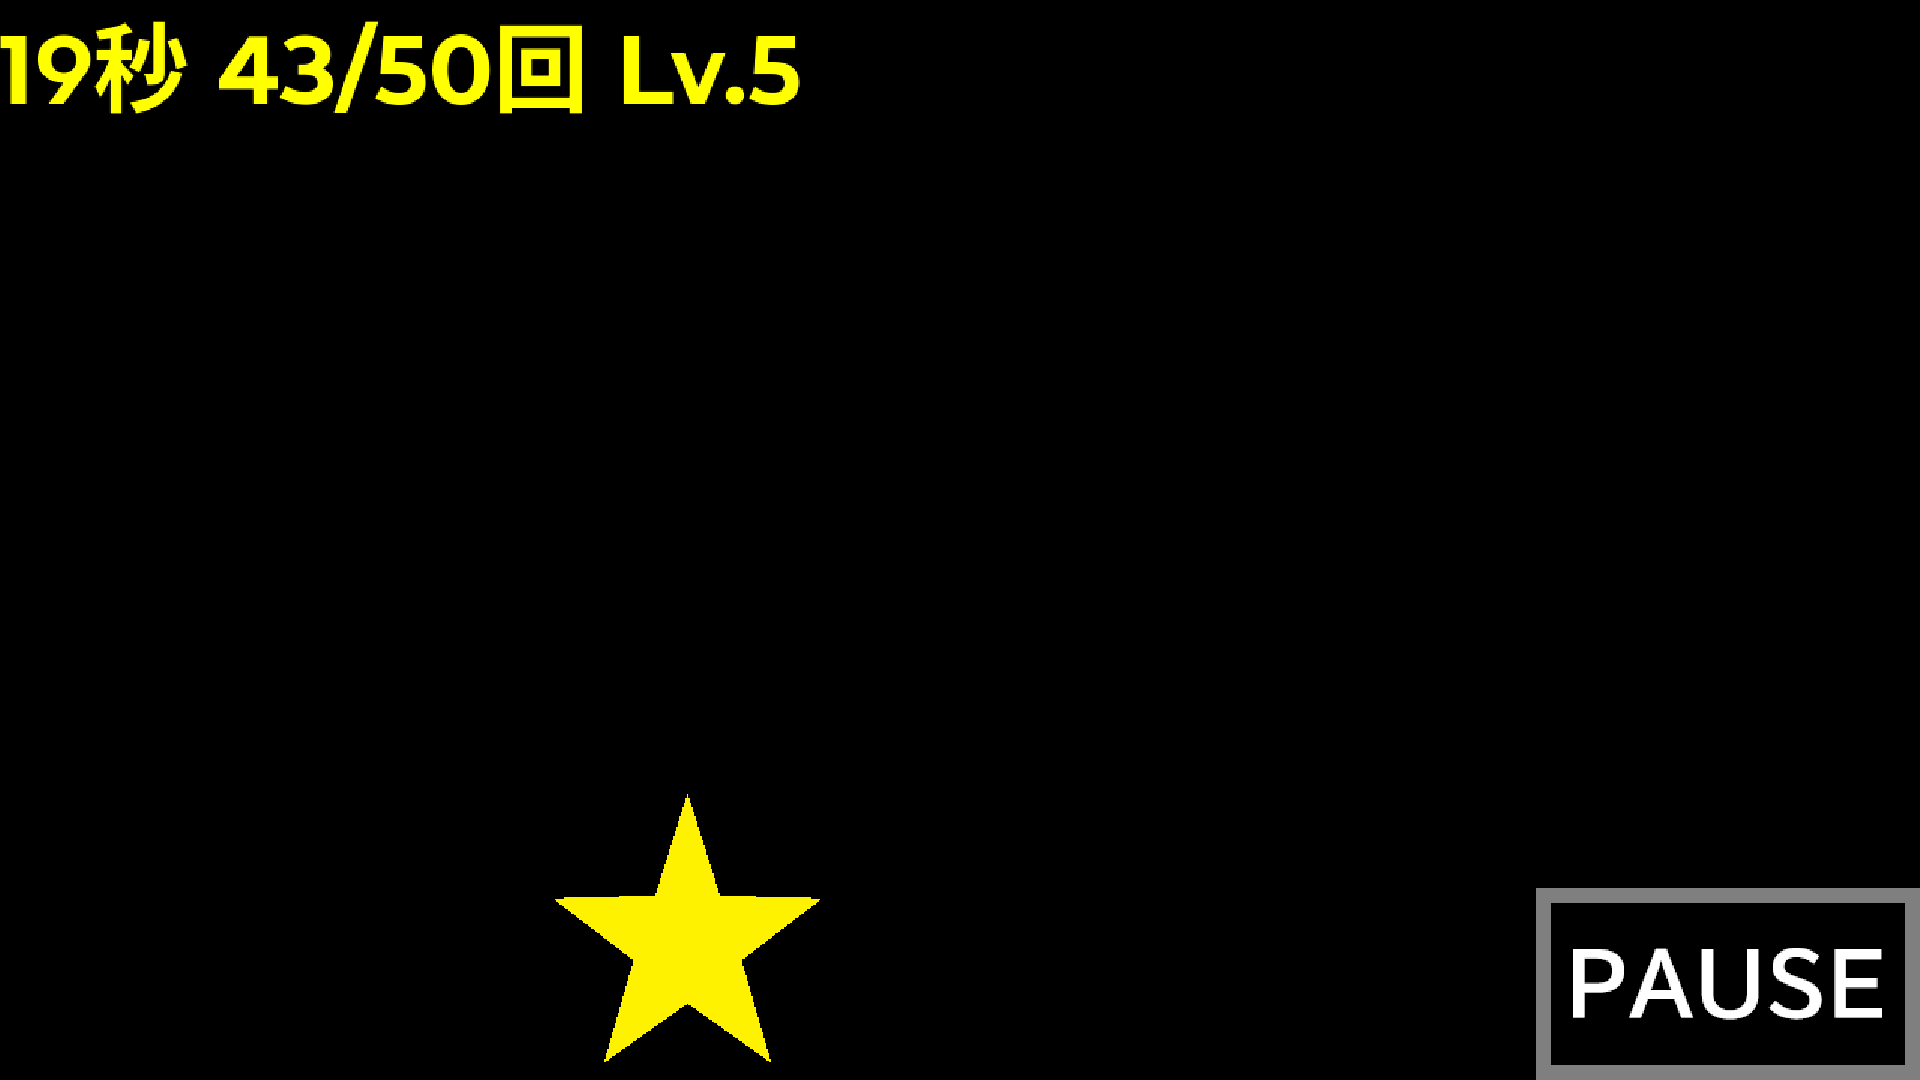
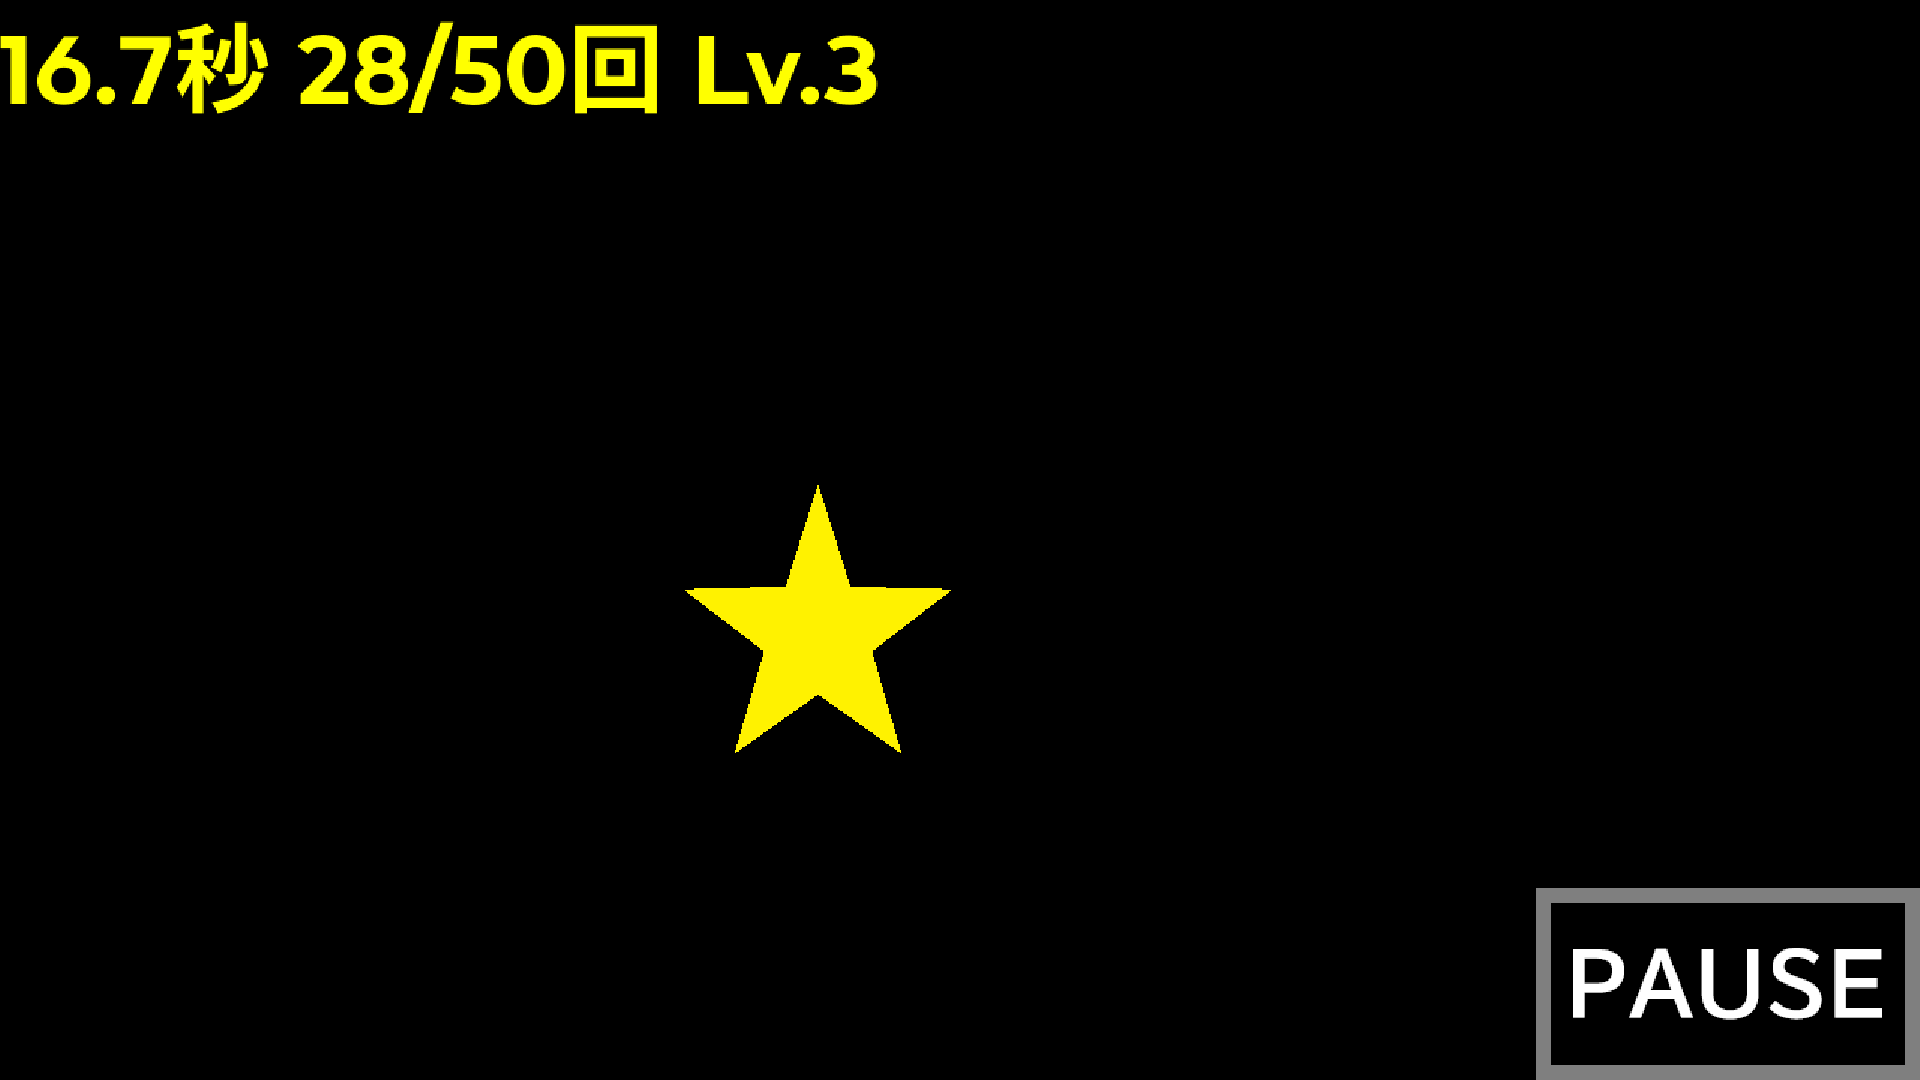
change the time unit to 0.1s and bugfixes

Changed region(s): [[0.0, 0.0, 0.4688, 0.1222], [0.3438, 0.4583, 0.5, 0.7028], [0.2812, 0.7333, 0.4375, 0.9778]]

diff --git a/README.md b/README.md
@@ -8,9 +8,11 @@
 
 ## 対応環境
 
+Linux 環境では、HSP3Dish 版スクリプトの文字コードを UTF-8 に変換すれば [Linux 版ランタイム](https://hsp.tv/make/hsp3linux_pi.html)で動作しますが、導入手順が煩雑なため Wine で Windows 版を実行するか Web 版を使う方が手軽です（macOS も同様）。HSP3Dish 版は本来 iOS/iPadOS にも対応していますが、私がビルド環境もテスト環境も持ち合わせないため作成していません（そもそも野良配布できないし...）。
+
 - Windows XP 以降の日本語版
   - 開発環境の制約上、日本語ロケールでしか正しく動作しません
-- Android 6 以降
+- Android 5 以降
   - Play Store 等では公開していないので、提供元不明アプリのインストールを有効化した上で、APK からインストールしてください
 - 新しめの Web ブラウザ [Experimental]
   - Web 版は「とりあえずビルドしてみた」程度で、環境によってはうまく動かない場合があります
